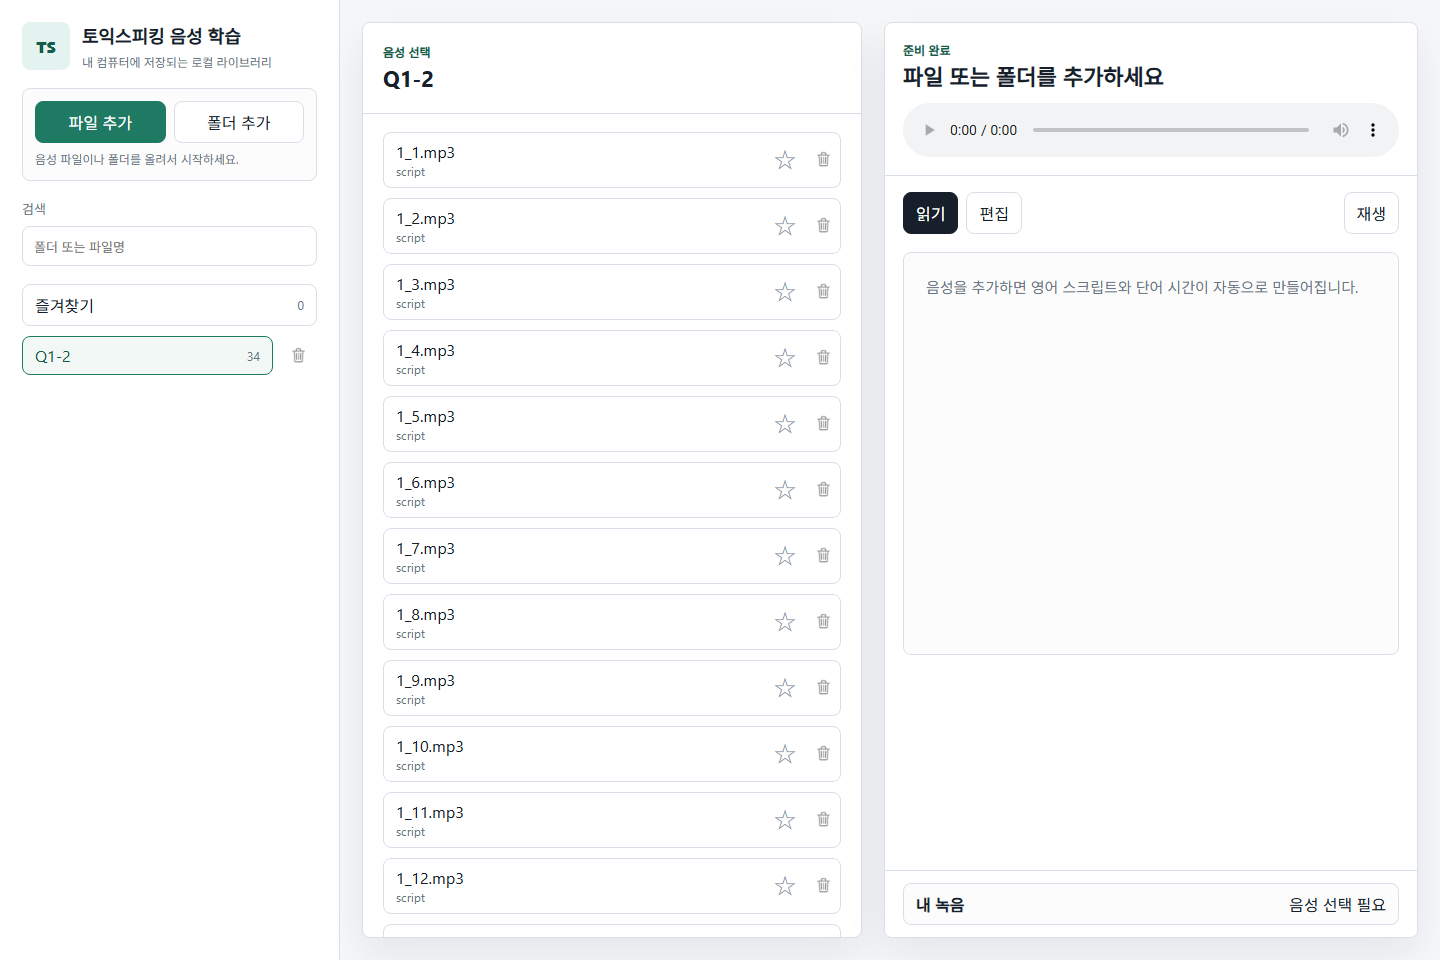
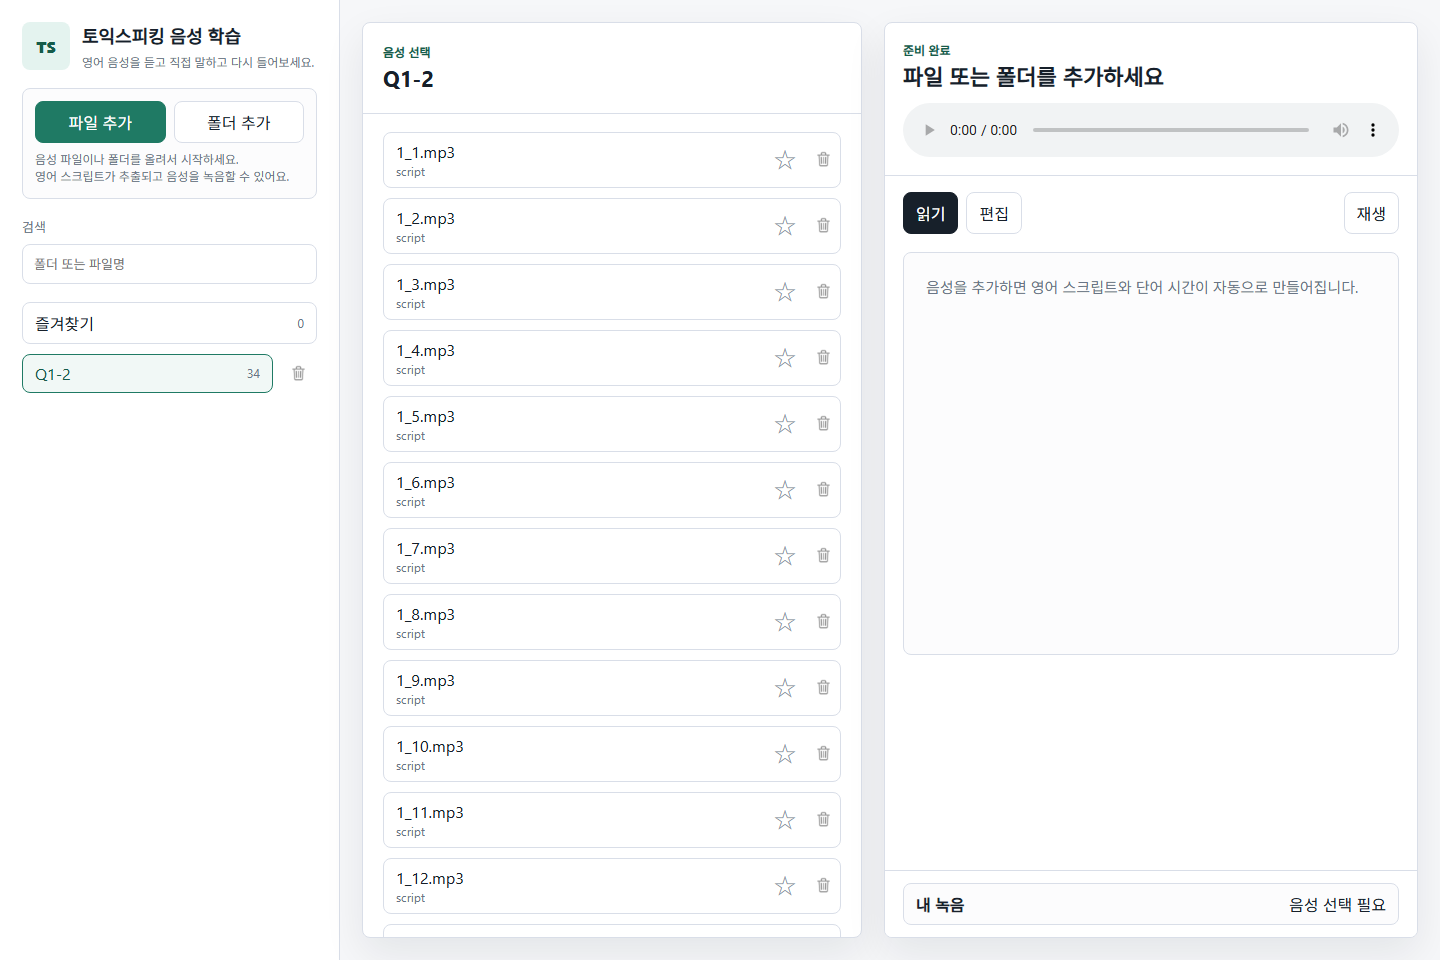
Polish interface guidance

diff --git a/public/app.js b/public/app.js
@@ -376,7 +376,7 @@ function resetStudyPanel() {
 }
 
 async function deleteTrack(track) {
-  const confirmed = window.confirm(`"${track.fileName}"을 삭제할까요?\n스크립트, 즐겨찾기, 내 녹음도 함께 삭제됩니다.`);
+  const confirmed = window.confirm(`"${track.fileName}"을 삭제할까요?\n해당 파일의 스크립트, 즐겨찾기, 내 녹음도 함께 삭제됩니다.`);
   if (!confirmed) return;
 
   try {
@@ -398,7 +398,7 @@ async function deleteTrack(track) {
 }
 
 async function deleteFolder(folder) {
-  const confirmed = window.confirm(`"${folder.name}" 폴더와 음성 ${folder.tracks.length}개를 모두 삭제할까요?\n스크립트, 즐겨찾기, 내 녹음도 함께 삭제됩니다.`);
+  const confirmed = window.confirm(`"${folder.name}" 폴더와 음성 ${folder.tracks.length}개를 모두 삭제할까요?\n해당 파일의 스크립트, 즐겨찾기, 내 녹음도 함께 삭제됩니다.`);
   if (!confirmed) return;
 
   try {
@@ -756,7 +756,7 @@ async function boot() {
   const favorites = await favoritesResponse.json();
   state.favoriteTrackIds = new Set(favorites.trackIds || []);
   state.folders = library.folders || [];
-  els.audioRoot.textContent = "내 컴퓨터에 저장되는 로컬 라이브러리";
+  els.audioRoot.textContent = "영어 음성을 듣고 직접 말하고 다시 들어보세요.";
 
   const jobsData = jobsResponse.ok ? await jobsResponse.json() : { jobs: [] };
   const activeJobs = (jobsData.jobs || []).filter((job) => job.status === "queued" || job.status === "running");

diff --git a/public/index.html b/public/index.html
@@ -28,7 +28,7 @@
           <input id="folderInput" type="file" accept="audio/*,.mp3,.wav,.m4a,.aac,.ogg,.webm,.flac" multiple webkitdirectory directory hidden />
           <button id="fileButton" class="primary" type="button">파일 추가</button>
           <button id="folderButton" type="button">폴더 추가</button>
-          <p id="uploadStatus">음성 파일이나 폴더를 올려서 시작하세요.</p>
+          <p id="uploadStatus">음성 파일이나 폴더를 올려서 시작하세요. <br>영어 스크립트가 추출되고 음성을 녹음할 수 있어요.</p>
           <div id="transcriptionProgress" class="progress-track hidden" role="progressbar" aria-label="스크립트 추출 진행률" aria-valuemin="0" aria-valuemax="100" aria-valuenow="0">
             <span id="transcriptionProgressBar"></span>
           </div>
